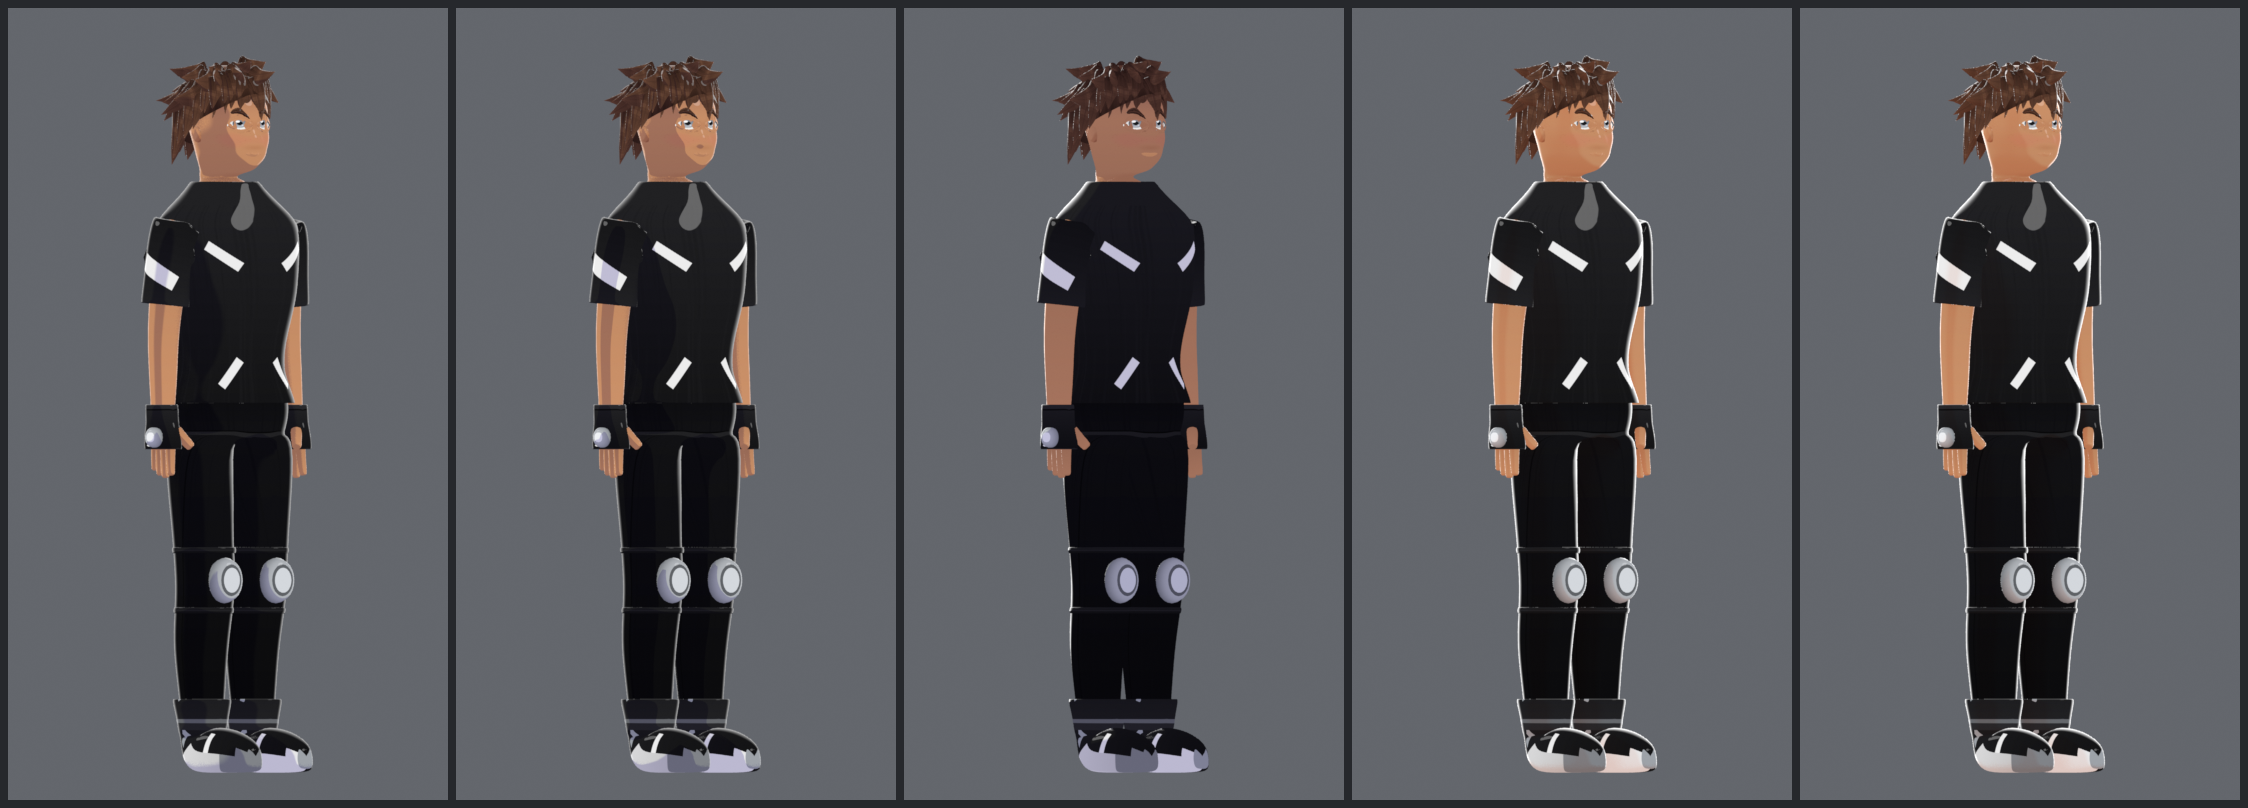
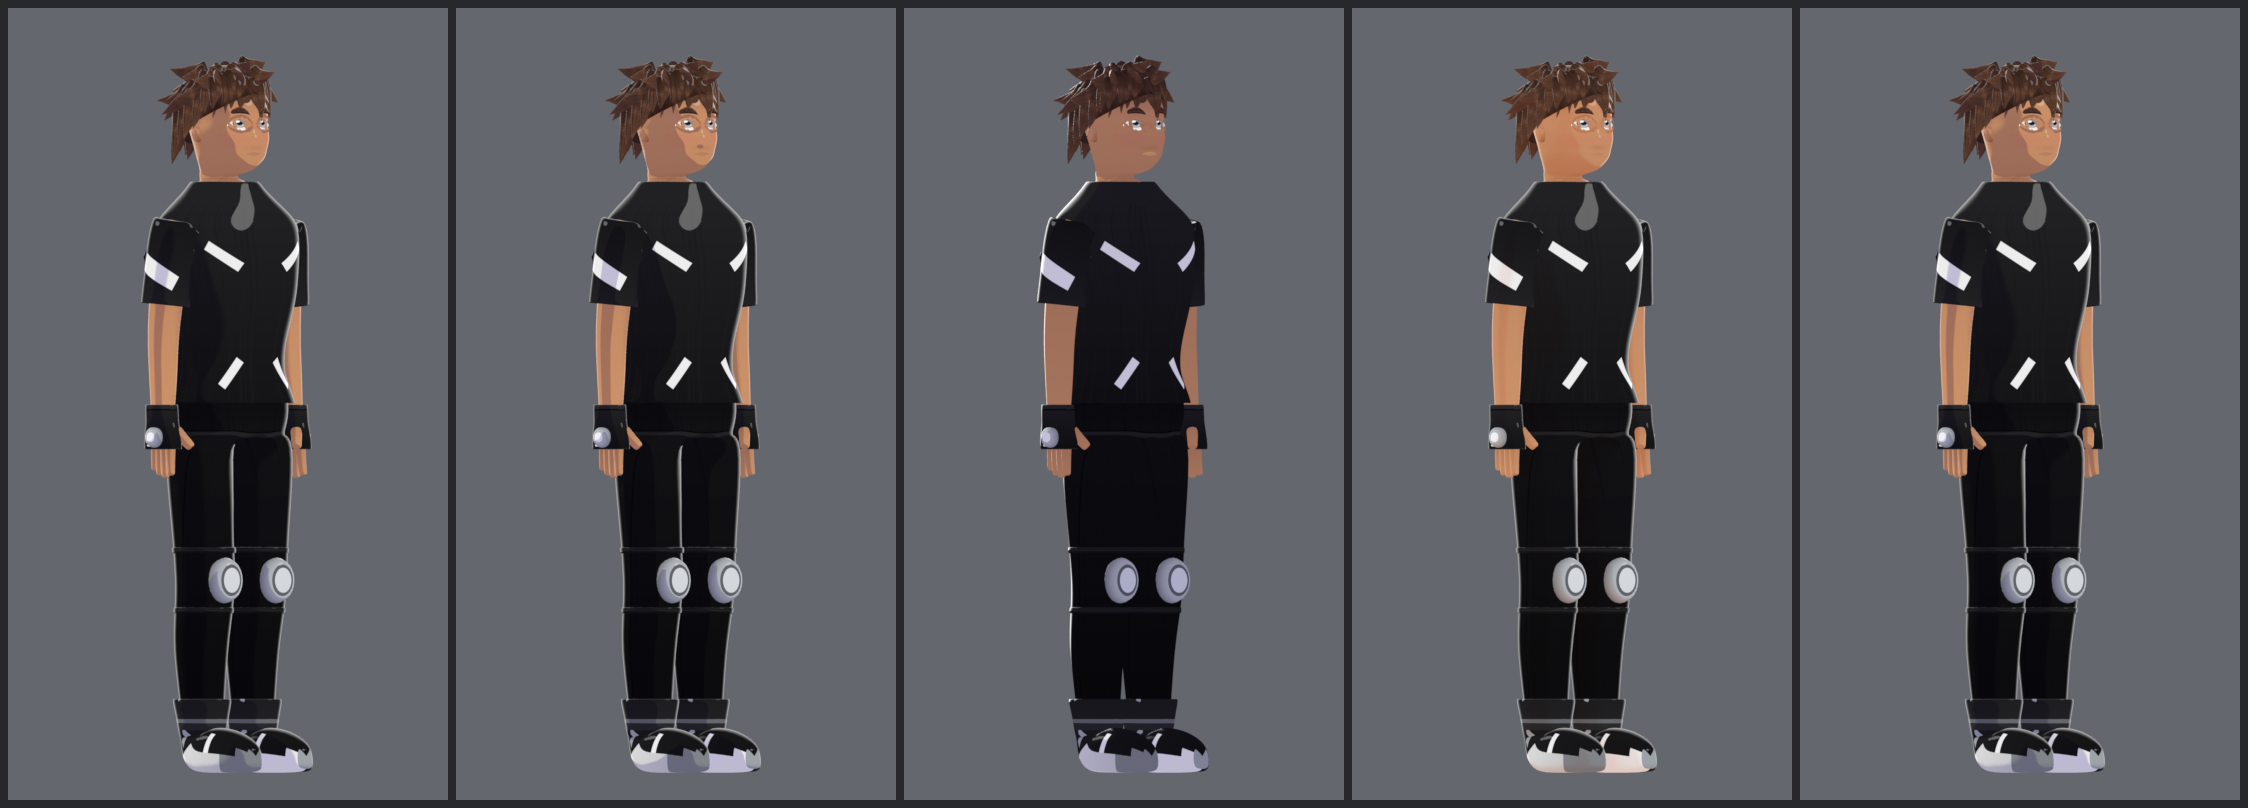
Add a region-grading sheet, and stop looks bleeding into each other
tools/showcase.py --only regions renders four head-and-shoulders frames
with the same pose and the same SHD-ctrl, moving one region control
between them: uniform, the face lifted, the hair hardened, the body
deepened. That is the whole point of the SUN-* controls, so it should be
visible rather than only described.

Rendering it exposed a bug in the sheets that already existed. _reset()
restored pose transforms but not custom properties, and every look in
these sheets *is* a set of properties -- so each frame inherited the
previous one's grade. The last frame of shadow_rig.png was carrying the
warm tint set two frames earlier, which makes a comparison sheet
worthless. _reset() now restores a snapshot taken before the first frame,
and both it and _apply() tag the material node trees so the drivers
actually re-run.

shadow_rig.png is re-rendered with the fix; the frames are now
independent.

Claude-Session: https://claude.ai/code/session_01PKzpqyiRqGWA2totgAsVe8

diff --git a/tools/showcase.py b/tools/showcase.py
@@ -27,12 +27,49 @@ def _rig():
     return bpy.data.objects.get(C.RIG_NAME)
 
 
+# Custom-property values as the rig was built, captured before the first
+# sheet is rendered.  Resetting only the transforms is not enough: every
+# look here is a set of *properties*, so without restoring them each frame
+# inherits the previous one's grade and the sheet stops being a comparison.
+_BASELINE = {}
+
+
+def _snapshot(rig):
+    """Remember every pose-bone custom property at its build-time value."""
+    _BASELINE.clear()
+    for pb in rig.pose.bones:
+        props = {}
+        for key in pb.keys():
+            if key.startswith("_"):
+                continue
+            value = pb[key]
+            # IDPropertyArray does not survive a plain reference
+            props[key] = list(value) if hasattr(value, "__len__") \
+                and not isinstance(value, str) else value
+        if props:
+            _BASELINE[pb.name] = props
+    return _BASELINE
+
+
 def _reset(rig):
     for pb in rig.pose.bones:
         pb.location = (0, 0, 0)
         pb.rotation_euler = (0, 0, 0)
         pb.rotation_quaternion = (1, 0, 0, 0)
         pb.scale = (1, 1, 1)
+    for name, props in _BASELINE.items():
+        pb = rig.pose.bones.get(name)
+        if pb is None:
+            continue
+        for key, value in props.items():
+            try:
+                pb[key] = value
+            except (TypeError, KeyError):
+                pass
+    rig.update_tag()
+    for mat in bpy.data.materials:
+        if mat.node_tree is not None:
+            mat.node_tree.update_tag()
     bpy.context.evaluated_depsgraph_get().update()
 
 
@@ -50,6 +87,9 @@ def _apply(rig, pose):
             else:
                 pb[key] = value
     rig.update_tag()
+    for mat in bpy.data.materials:
+        if mat.node_tree is not None:
+            mat.node_tree.update_tag()
     bpy.context.evaluated_depsgraph_get().update()
 
 
@@ -115,6 +155,19 @@ SHADOW_LOOKS = {
                                "shadow_threshold": 0.42}},
     "bang_shadow": {"SHD-face": {"loc": (0, 0, 0.055)},
                     "SHD-ctrl": {"face_shadow_softness": 0.06}},
+}
+
+# Per-region grading: the same pose and the same master control, with only
+# one region's offsets moved.  Framed on the head and shoulders because
+# that is where face-versus-body separation actually reads.
+REGION_LOOKS = {
+    "uniform": {},
+    "face_lifted": {"SUN-face": {"threshold_offset": -0.22,
+                                 "softness_offset": 0.05}},
+    "hair_hard": {"SUN-hair": {"threshold_offset": 0.18,
+                               "softness_offset": -0.035}},
+    "body_deep": {"SUN-body": {"threshold_offset": 0.22,
+                               "strength_offset": 0.12}},
 }
 
 POSES = {
@@ -184,6 +237,29 @@ def render_shadow_looks(out_dir, rig, size=440, samples=40):
                                  os.path.join(out_dir, "shadow_rig.png"))
 
 
+def render_regions(out_dir, rig, size=440, samples=40):
+    """One frame per region look, framed on the head and shoulders.
+
+    `SHD-ctrl` is untouched across the whole sheet -- only a single region
+    control moves between frames, so any difference is that region alone.
+    """
+    paths = []
+    for name, pose in REGION_LOOKS.items():
+        _reset(rig)
+        _apply(rig, pose)
+        height = int(size * 1.15)
+        preview.setup_render(width=size, height=height, samples=samples)
+        p = preview.render_views(out_dir, views=("three_q",),
+                                 prefix=f"region_{name}", width=size,
+                                 height=height, focus=Vector((0, 0, 1.50)),
+                                 ortho_scale=0.52, objects=_meshes(),
+                                 samples=samples)
+        paths.extend(p)
+    _reset(rig)
+    return preview.contact_sheet(paths,
+                                 os.path.join(out_dir, "regions.png"))
+
+
 def render_poses(out_dir, rig, size=(560, 1000), samples=40):
     paths = []
     for name, pose in POSES.items():
@@ -209,13 +285,16 @@ def main(argv=None):
     ap.add_argument("--out", default=os.path.join(HERE, "build", "preview"))
     ap.add_argument("--samples", type=int, default=40)
     ap.add_argument("--only", nargs="*",
-                    choices=("turnaround", "expressions", "shadow", "poses"))
+                    choices=("turnaround", "expressions", "shadow", "regions",
+                             "poses"))
     args = ap.parse_args(argv)
 
     bpy.ops.wm.open_mainfile(filepath=args.blend)
     os.makedirs(args.out, exist_ok=True)
     rig = _rig()
-    want = args.only or ("turnaround", "expressions", "shadow", "poses")
+    _snapshot(rig)
+    want = args.only or ("turnaround", "expressions", "shadow", "regions",
+                         "poses")
     written = []
     if "turnaround" in want:
         written.append(render_turnaround(args.out, samples=args.samples))
@@ -224,6 +303,8 @@ def main(argv=None):
     if "shadow" in want:
         written.append(render_shadow_looks(args.out, rig,
                                            samples=args.samples))
+    if "regions" in want:
+        written.append(render_regions(args.out, rig, samples=args.samples))
     if "poses" in want:
         written.append(render_poses(args.out, rig, samples=args.samples))
     for path in written:

diff --git a/docs/RIGGING.md b/docs/RIGGING.md
@@ -197,6 +197,13 @@ you want fixed studio lights instead, re-parent `SHD-root` to nothing.
 
 ### `SUN-body`, `SUN-face`, `SUN-hair` — per-region grading
 
+![Region grading](images/regions.png)
+
+Same pose, same `SHD-ctrl` across all four frames; only one region control
+moves. Left to right: uniform, `SUN-face` lifted, `SUN-hair` hardened,
+`SUN-body` deepened. Render it yourself with
+`python3 -m tools.showcase --only regions`.
+
 `SHD-ctrl` moves the whole character at once, which is the right default
 and the wrong final answer: an anime key almost always wants the face
 reading cleaner than the body, and the hair harder than either.
@@ -280,10 +287,12 @@ unweighted, and that each has exactly one armature modifier.
 
 ## Verifying changes
 
-`python3 -m tools.verify --blend build/kaito.blend` runs 86 checks that
+`python3 -m tools.verify --blend build/kaito.blend` runs 96 checks that
 *pose* the rig and measure the response — IK moves the foot 12 cm, the
-blink slider closes the eye, `SHD-ctrl` retints all eight toon materials,
-`SHD-key` turns the lamp 60°. If you change the rig, run it. Failures print
+blink slider closes the eye, `SHD-ctrl` retints all nine toon materials,
+`SUN-face` moves the face and leaves the body alone, `SHD-key` turns the
+lamp 60°. One more check runs per supplied input map, confirming it
+actually reaches the shader. If you change the rig, run it. Failures print
 the measured number, so they can be diagnosed without opening Blender.
 
 The checks worth understanding are the **rest-pose** ones. Constraints are

diff --git a/README.md b/README.md
@@ -18,7 +18,7 @@ blender --background --python build.py -- --out build/kaito.blend
 Then check it actually works:
 
 ```
-python3 -m tools.verify --blend build/kaito.blend      # 97 rig checks
+python3 -m tools.verify --blend build/kaito.blend      # 96 rig checks
 python3 -m tools.showcase --blend build/kaito.blend    # preview sheets
 ```
 
@@ -39,6 +39,12 @@ key from behind, warm and soft, and the fringe shadow dropped down the
 face:
 
 ![Shadow rig](docs/images/shadow_rig.png)
+
+Per-region grading. Same pose, same `SHD-ctrl`; only one region control
+moves between frames — uniform, the face lifted, the hair hardened, the
+body deepened:
+
+![Region grading](docs/images/regions.png)
 
 ---
 
@@ -199,8 +205,8 @@ tools/
   png.py                 stdlib PNG read/write
   uvprobe.py             "where on the texture is this point on the model?"
   preview.py             orthographic turnaround renders
-  showcase.py            turnaround / expression / shadow / pose sheets
-  verify.py              73 checks that the rig actually responds
+  showcase.py            turnaround / expression / shadow / region / pose sheets
+  verify.py              96 checks that the rig actually responds
 docs/
   RIGGING.md             every control, what it does, how to animate it
   TEXTURES.md            the UV atlas and how to repaint each map
